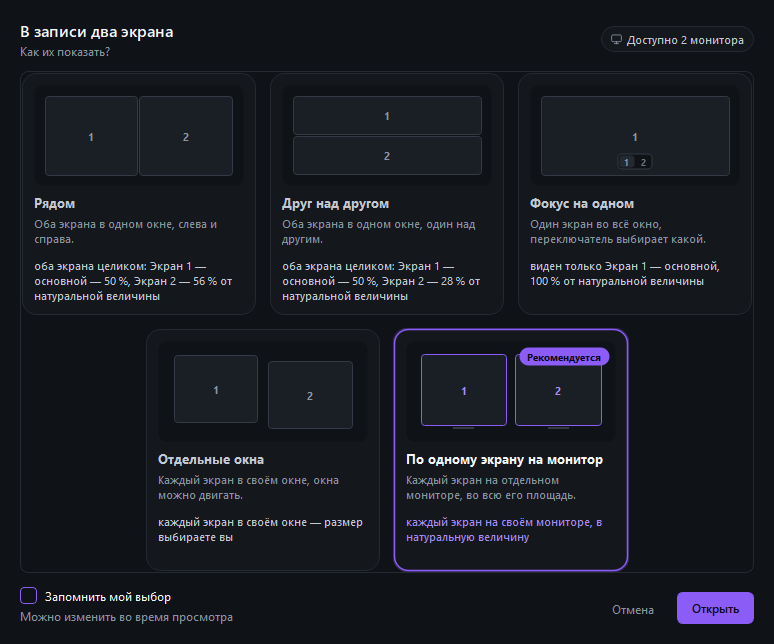
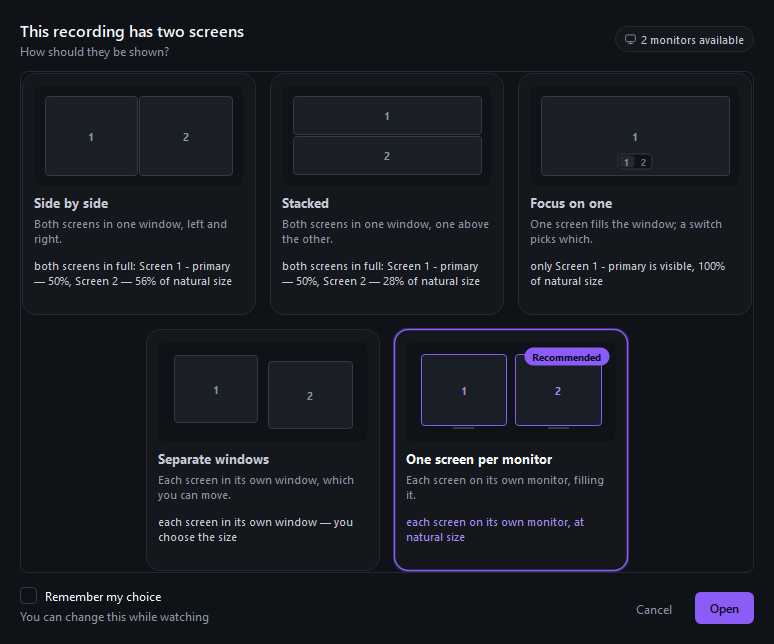
A landing page, and screenshots that speak the page's language
The screenshots were of the Russian interface while every page they
appeared on was in English. The program is bilingual, so this was only a
matter of asking it in the other language - except that a third of the
words in those pictures were not the program's at all. "Экран 1 —
основной", "60 к/с", "H.265 · баланс", the invented window names in the
picker and the caption burned into the demonstration clip were all strings
this repository's own screenshot harness hands over, and switching the
interface language left every one of them in Russian. They are parameters
now, and both sets are kept.

docs/index.html is the page, 13 KB and self-contained, to be served from
/docs when the repository goes public. It is deliberately the same design
as the author's other project's page - the same palette, radius, system
font stack, dark-mode rule and section shapes - because two pages by one
person that look unrelated are worse than two that look like a pair. The
logo and the favicon are rendered from the .ico the build already produces
from the application's own drawing code, so the page wears the program's
icon rather than something invented for it.

One correction worth naming: the caption under the two-screen picture read
"00:00:05.000 and 00:00:04.967 - one frame apart". Those were the numbers
from the *Russian* screenshot; the English one shows 00:00:05.033 and
00:00:04.933, which is 100 ms and three frames. The caption now cites the
[…]

diff --git a/docs/index.html b/docs/index.html
@@ -1,0 +1,258 @@
+<!DOCTYPE html>
+<html lang="en">
+<head>
+<meta charset="utf-8">
+<meta name="viewport" content="width=device-width, initial-scale=1">
+<title>ScreenRec — a screen recorder for Windows, and a player for what it records</title>
+<meta name="description" content="Free Windows screen recorder: a monitor, a region, one window, or every screen at once, with microphone and system sound. Draw over the screen while recording. The player keeps several screens in step. No editor, no account, no network.">
+<meta property="og:type" content="website">
+<meta property="og:title" content="ScreenRec — a screen recorder for Windows, and a player for what it records">
+<meta property="og:description" content="Records a monitor, a region, one window, or every screen at once. Draw over the screen while you record. The player plays several screens from one clock. Free, open source, GPL v3.">
+<meta property="og:url" content="https://garneva13.github.io/screenrec-win/">
+<meta property="og:image" content="https://garneva13.github.io/screenrec-win/images/recorder-idle.png">
+<meta name="twitter:card" content="summary_large_image">
+<link rel="icon" type="image/png" href="favicon.png">
+<style>
+  :root{
+    --bg:#f2f3f5; --card:#ffffff; --stroke:#e4e7eb; --text:#14181d; --muted:#5f6b76;
+    --accent:#0b57d0; --ok:#1e8e3e; --warn:#b06000; --radius:20px;
+  }
+  @media (prefers-color-scheme: dark){
+    :root{ --bg:#0f1216; --card:#1a1e23; --stroke:#2a3036; --text:#e7eaee; --muted:#9aa5b1; --accent:#a8c7fa; --ok:#6dd58c; --warn:#f5b04c; }
+  }
+  *{box-sizing:border-box}
+  body{margin:0;background:var(--bg);color:var(--text);
+       font:16px/1.55 -apple-system,BlinkMacSystemFont,"Segoe UI",Roboto,Arial,sans-serif}
+  .wrap{max-width:860px;margin:0 auto;padding:40px 20px 80px}
+  h1{font-size:34px;line-height:1.15;margin:0 0 8px}
+  h2{font-size:21px;margin:44px 0 14px}
+  .lead{color:var(--muted);margin:0 0 22px;max-width:620px}
+  .brand{display:flex;align-items:center;gap:14px;margin-bottom:10px}
+  .brand h1{margin:0}
+  .logo{width:56px;height:56px;border-radius:15px;display:block;flex:none}
+  .lang{margin-left:auto;font-size:13px;font-weight:700;color:var(--muted);text-decoration:none;
+        border:1px solid var(--stroke);padding:6px 12px;border-radius:999px;background:var(--card)}
+  .btn{display:inline-block;padding:12px 22px;border-radius:999px;text-decoration:none;
+       font-weight:600;font-size:15px;margin:0 8px 8px 0;border:1px solid transparent}
+  .btn.primary{background:var(--accent);color:#fff}
+  .btn.ghost{border-color:var(--stroke);color:var(--text);background:var(--card)}
+  .pill{display:inline-block;padding:4px 10px;border-radius:999px;background:var(--card);
+        border:1px solid var(--stroke);font-size:12px;color:var(--muted);margin-right:6px}
+  .grid{display:grid;grid-template-columns:repeat(auto-fit,minmax(220px,1fr));gap:14px}
+  .card{background:var(--card);border:1px solid var(--stroke);border-radius:var(--radius);padding:18px}
+  .card h3{margin:0 0 6px;font-size:16px}
+  .card p{margin:0;color:var(--muted);font-size:14px}
+  /* Wide, not phone-shaped: every picture here is a desktop window. */
+  .shot{display:block;width:100%;margin:14px auto 0;border-radius:14px;
+        border:1px solid var(--stroke);box-shadow:0 16px 36px rgba(0,0,0,.12)}
+  /* Never upscale a bar: these are small windows photographed at their real size,
+     and stretching one to the column width turns crisp text into mush. */
+  .shot.bar{max-width:760px;box-shadow:none;border:none}
+  .shot.narrow{max-width:420px;box-shadow:none;border:none}
+  .shot.tall{max-width:300px}
+  .caption{color:var(--muted);font-size:13px;text-align:center;margin:8px 0 0}
+  .split{display:flex;gap:22px;align-items:flex-start;flex-wrap:wrap}
+  .split > div{flex:1 1 300px}
+  ol.steps{padding-left:20px;margin:0}
+  ol.steps li{margin-bottom:12px}
+  code{background:var(--card);border:1px solid var(--stroke);border-radius:6px;padding:2px 6px;font-size:13px}
+  .note{border-left:3px solid var(--warn);padding:10px 14px;background:var(--card);
+        border-radius:0 12px 12px 0;color:var(--muted);font-size:14px}
+  details{background:var(--card);border:1px solid var(--stroke);border-radius:14px;
+          padding:14px 16px;margin-bottom:10px}
+  summary{cursor:pointer;font-weight:600}
+  details p{color:var(--muted);margin:10px 0 0;font-size:14px}
+  footer{margin-top:56px;color:var(--muted);font-size:13px;border-top:1px solid var(--stroke);padding-top:18px}
+  footer a{color:var(--muted)}
+</style>
+</head>
+<body>
+<div class="wrap">
+
+  <div class="brand">
+    <img class="logo" src="logo.png" alt="ScreenRec">
+    <h1>ScreenRec</h1>
+  </div>
+
+  <p class="lead">A screen recorder for Windows, and a player for what it records. It
+  captures a monitor, a region you drag out, a single window, or <strong>every screen at
+  once</strong>, with the microphone and the system sound. No editor, no account, no
+  network.</p>
+
+  <p>
+    <a class="btn primary" href="https://github.com/garneva13/screenrec-win/releases">Download</a>
+    <a class="btn ghost" href="https://github.com/garneva13/screenrec-win">Source code</a>
+  </p>
+  <p>
+    <span class="pill">Windows 10 2004+ · 64-bit</span>
+    <span class="pill">Free</span>
+    <span class="pill">GPL v3</span>
+  </p>
+
+  <img class="shot bar" src="images/recorder-idle.png"
+       alt="The ScreenRec bar: the screen to record, microphone and system sound, frame rate, format, folder and hotkey">
+
+  <h2>While it records, it gets out of the way</h2>
+  <p>The bar shrinks to a clock, the size of the file so far, and the frame rate it is
+  really achieving — not the one you asked for.</p>
+  <img class="shot narrow" src="images/recorder-recording.png"
+       alt="The bar while recording: stop, pause, 01:36, 118 MB, 60 fps">
+
+  <h2>What it records</h2>
+  <div class="grid">
+    <div class="card">
+      <h3>A whole screen</h3>
+      <p>Any monitor — or all of them at once, one file per screen, started together.</p>
+    </div>
+    <div class="card">
+      <h3>A region</h3>
+      <p>A rectangle you drag out. For when only one corner of the screen matters.</p>
+    </div>
+    <div class="card">
+      <h3>One window</h3>
+      <p>Pick a program from the list and record only that.</p>
+    </div>
+    <div class="card">
+      <h3>Sound</h3>
+      <p>Microphone and the computer's own sound, mixed into one track or kept as two.</p>
+    </div>
+    <div class="card">
+      <h3>The pointer</h3>
+      <p>Drawn or not, with an optional fading ring on every click.</p>
+    </div>
+    <div class="card">
+      <h3>A countdown</h3>
+      <p>A ring before the start, so there is time to clear the screen.</p>
+    </div>
+  </div>
+  <img class="shot" src="images/recorder-sources.png"
+       alt="Choosing a source: cards for each monitor with live thumbnails">
+  <p class="caption">The thumbnails in this picture are a demonstration clip, not the
+  author's desktop.</p>
+
+  <h2>Draw over the screen while you record</h2>
+  <p>Pen, marker, arrow, rectangle, ellipse and text. The drawings reach the file; the
+  toolbar never does.</p>
+  <img class="shot" src="images/annotate-over-screen.png"
+       alt="A screen with an arrow, a highlight, a box and the word 'Right here' drawn over it, and the drawing toolbar below">
+
+  <h2>The player</h2>
+  <p>A recording of two monitors is two files, not one picture with both screens squashed
+  into it. So the player asks how to show them — and works out what fits the monitors you
+  have in front of you <em>now</em>, not the ones you recorded on.</p>
+  <img class="shot" src="images/player-chooser.png"
+       alt="Five ways to show a two-screen recording, each with what it will cost in scale, and one recommended">
+
+  <p>Then it plays them from one clock: one scrubber, one pause, one frame-step, for both
+  streams at once.</p>
+  <img class="shot" src="images/player-stage.png"
+       alt="Two recorded screens side by side in one window, each showing its own clock, with the badge 'both are in step'">
+  <p class="caption">Each picture carries its own clock, burned in when it was made.
+  Measured over a playthrough rather than read off one frame: worst drift between the
+  two streams, 17 ms.</p>
+
+  <p>If the two streams did not start at the same instant, a panel on the transport slides
+  one against the other by a frame or by 100&nbsp;ms until they line up.</p>
+
+  <h2>Settings that say what they mean</h2>
+  <div class="split">
+    <div>
+      <p>No bitrates and no profile names. "Normal — H.265", and a sentence underneath
+      about what it will cost you:</p>
+      <p class="note">About 55 MB a minute at 1920×1080 (3.3 GB an hour) on a busy
+      screen — far less on a quiet one.</p>
+      <p>Once there are real recordings to go on, that figure stops being an estimate and
+      says <em>measured on this machine</em>. A format your machine cannot encode is
+      disabled, with the reason written next to it.</p>
+      <p>Interface in English or Russian, switchable while it runs.</p>
+    </div>
+    <div>
+      <img class="shot tall" src="images/recorder-settings.png"
+           alt="The settings panel: language, preset, video, audio, cursor, output folder and hotkeys">
+    </div>
+  </div>
+
+  <h2>Installing</h2>
+  <ol class="steps">
+    <li>Download <code>ScreenRec-0.1.0-setup.exe</code> from
+      <a href="https://github.com/garneva13/screenrec-win/releases">Releases</a> and run it.</li>
+    <li>Windows will warn you — the installer is not code-signed yet. Click
+      <strong>More info</strong>, then <strong>Run anyway</strong>. The release notes carry
+      the file's SHA-256 so you can check it first.</li>
+    <li>It installs both programs, puts <strong>ScreenRec</strong> and
+      <strong>ScreenRec Player</strong> in the Start menu, and asks once where recordings
+      should go.</li>
+  </ol>
+  <p class="note">Nothing else is needed. Python, Qt and ffmpeg are all inside the
+  installer; nothing is downloaded and nothing is installed system-wide besides the
+  program itself.</p>
+
+  <h2>What it runs on</h2>
+  <div class="grid">
+    <div class="card">
+      <h3>Windows 10 2004 or later</h3>
+      <p>64-bit. The capture uses the Desktop Duplication API, which is where that
+      version requirement comes from.</p>
+    </div>
+    <div class="card">
+      <h3>Any graphics card, or none</h3>
+      <p>It tries every encoder on your machine at first run and keeps the one that
+      actually works — NVIDIA, AMD, Intel, Windows' own, or the processor.</p>
+    </div>
+    <div class="card">
+      <h3>No account, no network</h3>
+      <p>It never connects to anything. There is no telemetry, no update check and
+      nothing to sign in to.</p>
+    </div>
+  </div>
+
+  <h2>Honest limits</h2>
+  <details>
+    <summary>Hardware encoding is tested on NVIDIA only</summary>
+    <p>The code supports AMD (AMF), Intel (QSV) and Windows' own Media Foundation
+    encoders, written from their documented options and guarded so that an unsupported
+    path falls back to the processor rather than failing. But the author has one NVIDIA
+    card and no way to run the others. If your machine takes the processor path when it
+    should not, that is worth a bug report — the settings panel will tell you which
+    encoder it chose and why.</p>
+  </details>
+  <details>
+    <summary>The installer is not signed yet</summary>
+    <p>So SmartScreen warns about it, and will keep warning until enough people have run
+    it or a certificate is in place. A signature through the SignPath Foundation, which
+    signs open-source projects for free, is planned. Until then the release carries the
+    SHA-256 of the file so you can check it yourself.</p>
+  </details>
+  <details>
+    <summary>There is no editor</summary>
+    <p>Deliberately. It records and it plays. The files are ordinary MP4s, so any editor
+    can open them — but what the editor cannot read is the sidecar that says how far
+    apart two screens started, so a multi-screen take has to be lined up by hand there.</p>
+  </details>
+  <details>
+    <summary>Three or more monitors, and display scaling, are unverified</summary>
+    <p>Two monitors are tested thoroughly, including one unplugged mid-playback. Three
+    screens work in the code and in the tests but have never been run on real hardware,
+    and neither has 125 %, 150 % or 200 % display scaling.</p>
+  </details>
+  <details>
+    <summary>Windows only</summary>
+    <p>The capture is the Windows Desktop Duplication API and the system-sound path is
+    WASAPI loopback. Neither exists elsewhere, and nothing here was written with a port
+    in mind.</p>
+  </details>
+
+  <footer>
+    <p>Source: <a href="https://github.com/garneva13/screenrec-win">github.com/garneva13/screenrec-win</a> ·
+    Licensed <strong>GPL v3</strong>, which follows from the bundled ffmpeg: a recorder
+    that must work on a machine with no hardware encoder needs x264, and x264 is GPL.
+    The corresponding ffmpeg source ships with every release.</p>
+    <p>ffmpeg, PySide6, PyAudioWPatch and comtypes are third-party; exact versions,
+    licences and where their source lives are in
+    <a href="https://github.com/garneva13/screenrec-win/blob/main/THIRD-PARTY-NOTICES.md">THIRD-PARTY-NOTICES.md</a>.
+    Not affiliated with Microsoft, NVIDIA, AMD or Intel.</p>
+  </footer>
+
+</div>
+</body>
+</html>
